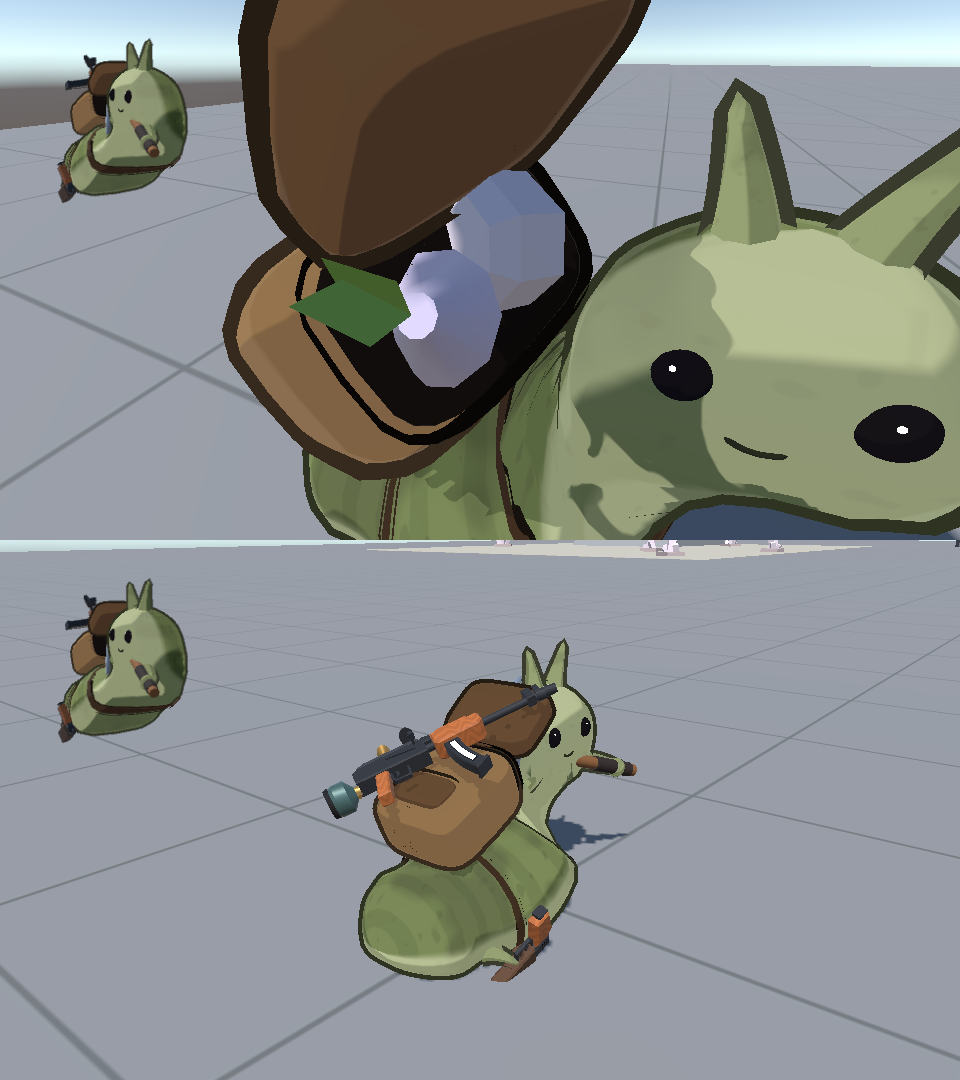
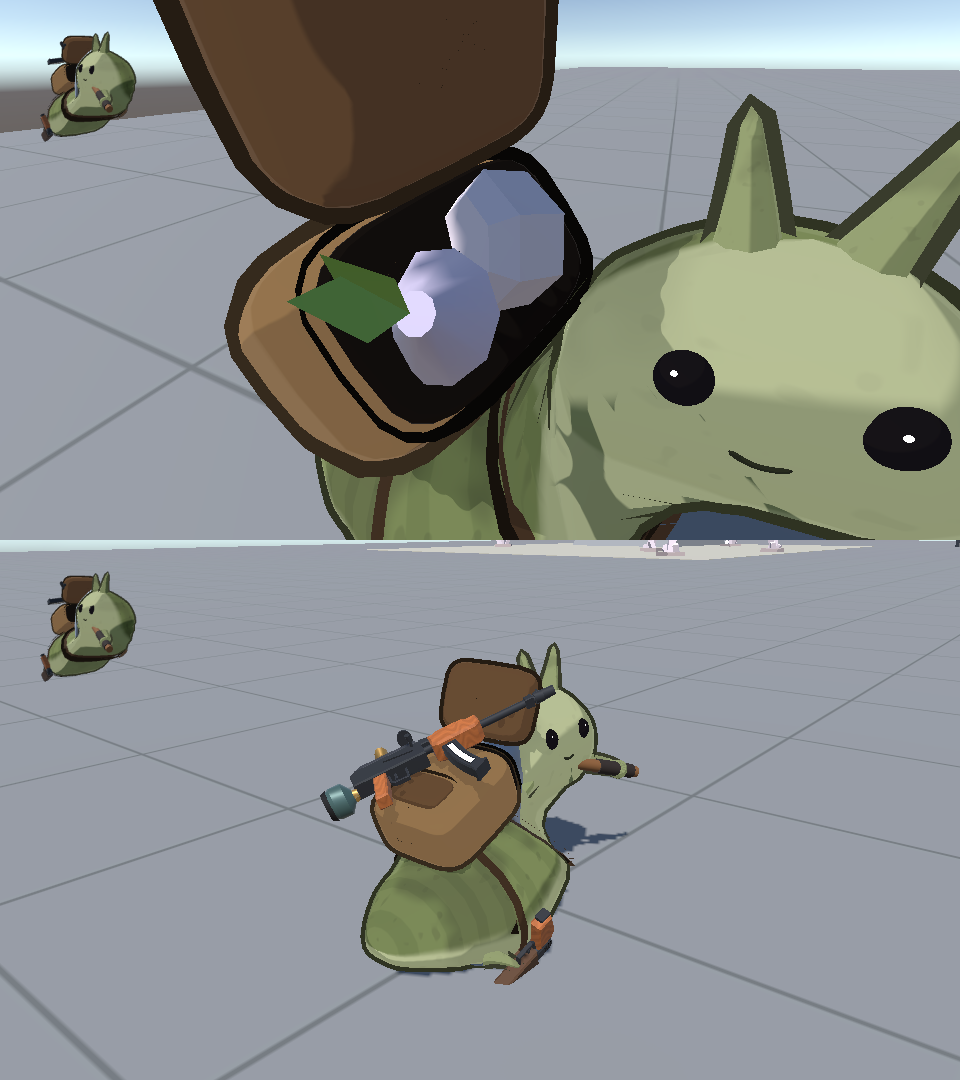
覗いたときのふたを 140° まで開いて、口がまるごと見えるように

diff --git a/Assets/Slug/Scripts/Runtime/SlugEquipment.cs b/Assets/Slug/Scripts/Runtime/SlugEquipment.cs
@@ -51,7 +51,7 @@ namespace SlugDesign
         [System.NonSerialized] public float bagSwell = 1f;
         [Tooltip("背中を覗いたとき、自分の画面だけでバッグを大きくする倍率")] public float bagLookScale = 1.6f;
         [Range(0f, 1f), Tooltip("背中を覗いたとき、自分の画面だけでバッグの口を目のほうへ傾ける割合（1 = 真っすぐ目に向ける）")] public float bagLookTilt = 0.45f;
-        [Tooltip("ふたを開けきったときの角度（度）。ふたは背中から遠いほうのふちを軸に、外側へ開く")] public float bagLidAngle = 105f;
+        [Tooltip("ふたを開けきったときの角度（度）。ふたは背中から遠いほうのふちを軸に、外側へ開く")] public float bagLidAngle = 140f;
         [Range(0f, 1f), Tooltip("背中を覗いたとき、自分の画面でふたも大きくする割合（0 = 大きくしない、1 = バッグと同じだけ）")] public float bagLidGrow = 0.3f;
 
         readonly List<Object> _owned = new List<Object>();

diff --git a/docs/bag_spec.md b/docs/bag_spec.md
@@ -188,7 +188,7 @@ Oct 4, 2026
 | 採取すると 1 個ずつ出てくる（岩塩 30 cm） | 済 | `Harvestable`、`ItemPickup` |
 | 手で持つ：つかむ（E）→ 入れる（E）、出す（G）→ 落とす・投げる（G）・体に突っ込む（X） | 済 | `SlugBag`（流れ）、`SlugCarry`（両手で抱える見た目、一人称も） |
 | 手に持っている間は道具が体に戻る | 済 | `SlugLoadout.SetHandsFull` |
-| 覗く：頭だけを右へ 90° 回す・ふたが背中から遠いほうのふちを軸に外側へ 105° 開く（周りから見える）、右肩の上から斜めに見下ろす視点、自分の画面だけ背負っているバッグが大きく傾いて、口に上の 2 つ（パンパンなら 3 つ） | 済 | `SlugPop.SetHeadTwist`、`SlugEquipment.PoseBag`、`SlugBag.OnBeginCamera` |
+| 覗く：頭だけを右へ 90° 回す・ふたが背中から遠いほうのふちを軸に外側へ 140° 開く（周りから見える）、右肩の上から斜めに見下ろす視点、自分の画面だけ背負っているバッグが大きく傾いて、口に上の 2 つ（パンパンなら 3 つ） | 済 | `SlugPop.SetHeadTwist`、`SlugEquipment.PoseBag`、`SlugBag.OnBeginCamera` |
 | 物を持ったまま覗くと、手と物は体のほうに描く（視点についてこない） | 済 | `SlugCameraRig.ShowsBody` |
 | 耐久、背中の弾で減る、破れたら中身が飛び散る | 済 | `SlugBag.OnHit` |
 | 背中の弾が体に通る割合（種類ごと） | 仮 | 当たり判定の倍率に入れた。体力がまだないので、GunTest の表示で倍率が見えるだけ |
